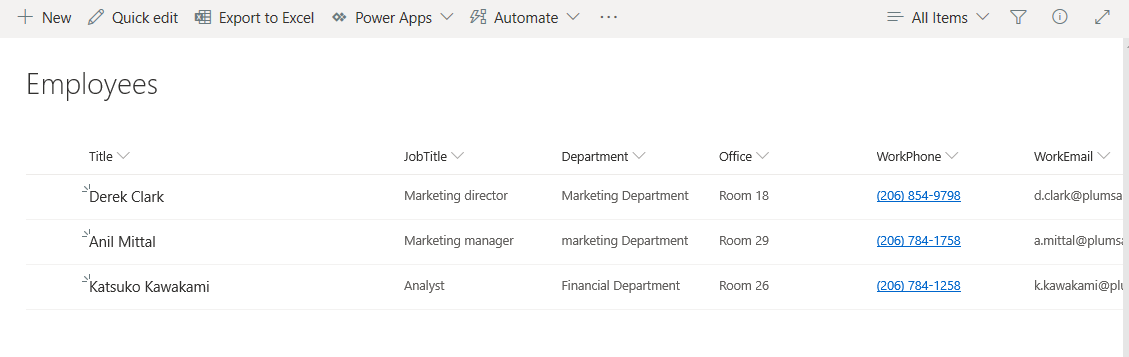
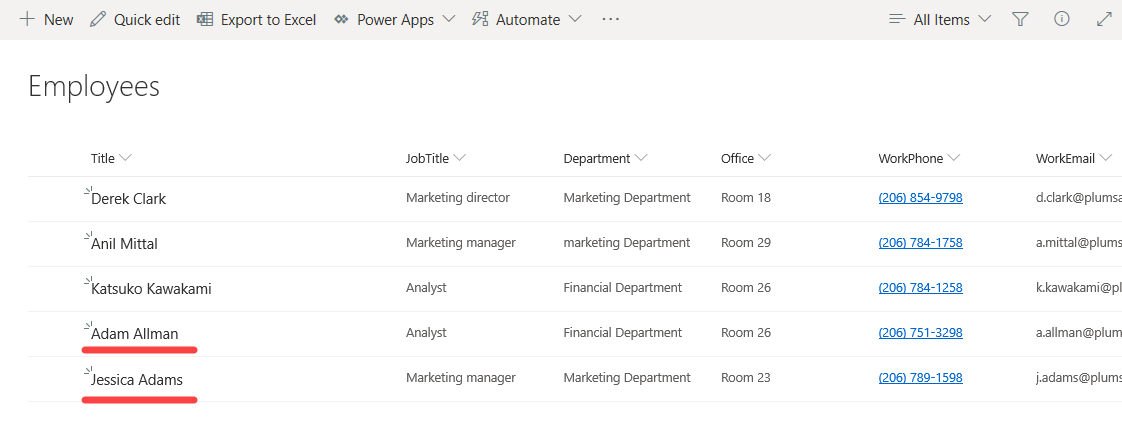
corrected Parse CSV article, added new pictures

diff --git a/source/flow/how-tos/sharepoint/read-csv-and-update-sharepoint-list.rst b/source/flow/how-tos/sharepoint/read-csv-and-update-sharepoint-list.rst
@@ -1,7 +1,7 @@
-How to read a CSV file and update SharePoint list in Power Automate
+How to read a CSV file and add an item to SharePoint list in Power Automate
 ===================================================================
 
-In this article, we'll demonstrate how to read CSV files in Power Automate (Microsoft Flow) using `Parse CSV action <https://plumsail.com/docs/actions/v1.x/flow/actions/sharepoint-processing.html#parse-csv>`_ action from Plumsail Documents connector.
+In this article, we'll demonstrate how to read CSV files in Power Automate (Microsoft Flow) using `Parse CSV action <https://plumsail.com/docs/actions/v1.x/flow/actions/sharepoint-processing.html#parse-csv>`_ from Plumsail Documents connector.
 
 Let's say we have a SharePoint list 'Employees' and we need to add information there from a CSV file.
 
@@ -42,12 +42,25 @@ Here are just a few of them:
 
 You can store your files anywhere. In this example, we will store our source CSV file in OneDrive folder, but you can get data from any other sources.
 
+I add new item using Create Item action from SharePoint connector and Apply to each action since we have 2 items to add.
+
+.. image:: ../../../_static/img/flow/how-tos/add-new-employees-action.png
+    :alt: Create item action
+
 
 After running the flow we have two new employees in the Employees list
 
 .. image:: ../../../_static/img/flow/how-tos/new-employees-result.png
     :alt: New employees
 
+
+Update a SharePoint list
+-------------------------
+The same approach could be used to update a SharePoint list. However, in that case, you need to check if the item already exists.
+To filter the existing items you can use **Get Items** actions from **SharePoint connector**.
+
+.. image:: ../../../_static/img/flow/how-tos/get-items-action.png
+    :alt: Get items
 
 Conclusion
 ----------
